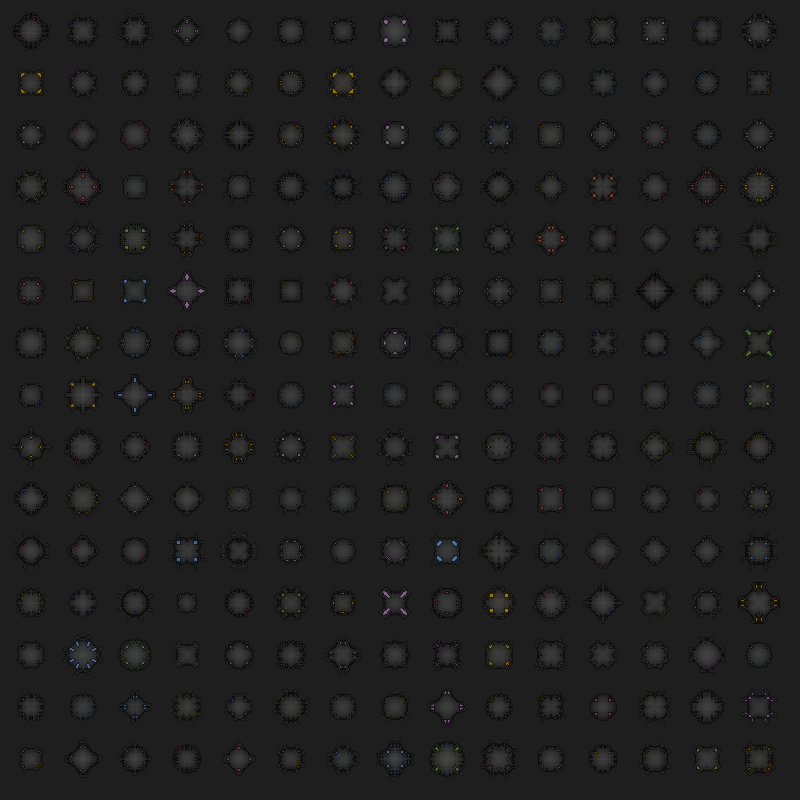
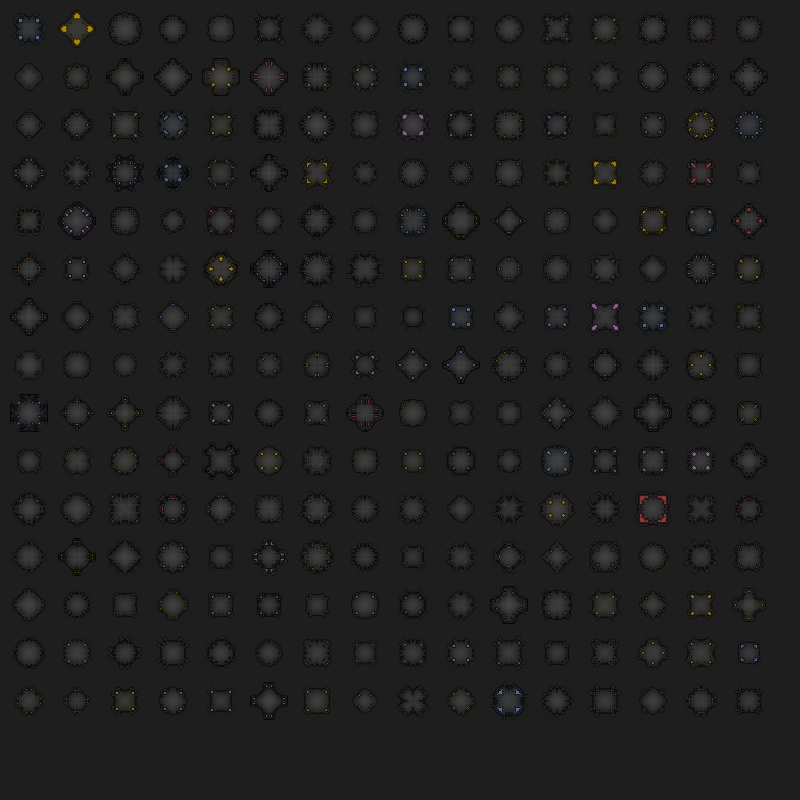
Added a console generator. Tweaked Image Utils. And set the correct size for the tiles factory.

diff --git a/examples/ajb/examples/CreateImageFullOfConsoles.java b/examples/ajb/examples/CreateImageFullOfConsoles.java
@@ -1,0 +1,44 @@
+package ajb.examples;
+
+import java.awt.image.BufferedImage;
+import java.util.ArrayList;
+import java.util.List;
+
+import ajb.domain.Pixel;
+import ajb.factory.ConsoleGeneratorFactory;
+import ajb.utils.ImageUtils;
+
+public class CreateImageFullOfConsoles {
+
+	public static void main(String[] args) {
+
+		// get an instance of our factory
+		ConsoleGeneratorFactory factory = new ConsoleGeneratorFactory();
+
+		// list to hold all the console we generate
+		List<Pixel[][]> grids = new ArrayList<Pixel[][]>();
+
+		// create X console and add to our list
+		for (int i = 0; i < 240; i++) {
+
+			Pixel[][] grid = factory.create();
+
+			// add grid to list
+			grids.add(grid);
+		}
+
+        //g.setColor(Color.decode("#FFC600"));
+        //int identifierWidth = g.getFontMetrics().stringWidth(hex.getIdentifier());
+        //int identifierHeight = g.getFontMetrics().getHeight();
+        //g.drawString(hex.getIdentifier(), (int) hex.getMiddlePoint().getX() - (identifierWidth / 2), (int) hex.getMiddlePoint().getY() + (identifierHeight / 2));						
+		
+		// create image
+		BufferedImage img = ImageUtils.outputAllToImage(grids, 800, 800, null, null);
+
+		// save image
+		// replace with the path of wherever you want the image to go - if left
+		// as is it will be in the root project folder
+		ImageUtils.save(img, "png", "consoles");
+	}
+
+}

diff --git a/src/ajb/factory/ConsoleGeneratorFactory.java b/src/ajb/factory/ConsoleGeneratorFactory.java
@@ -1,0 +1,36 @@
+package ajb.factory;
+
+import ajb.domain.Pixel;
+import ajb.utils.PixelGridUtils;
+
+public class ConsoleGeneratorFactory {
+
+	private final int ROWS = 19;
+	private final int COLS = 19;
+
+	public Pixel[][] create() {
+
+		Pixel[][] grid = createBaseGrid();
+		
+		grid = PixelGridUtils.mirrorCopyGridHorizontally(grid);
+		grid = PixelGridUtils.mirrorCopyGridVertically(grid);
+		grid = PixelGridUtils.addBorders(grid);		
+		PixelGridUtils.setPixelDepth(grid);		
+		
+		return grid;
+	}
+	
+	private Pixel[][] createBaseGrid() {
+
+		Pixel[][] grid = new Pixel[ROWS][COLS];
+		PixelGridUtils.initEmptyGrid(grid, ROWS, COLS);
+
+		for (int x = 0; x < ROWS; x++) {
+			for (int y = 0; y < COLS; y++) {
+				grid[x][y].value = Pixel.FILLED;
+			}
+		}
+
+		return grid;
+	}
+}

diff --git a/src/ajb/utils/ImageUtils.java b/src/ajb/utils/ImageUtils.java
@@ -21,6 +21,10 @@ public class ImageUtils {
 
 	public static BufferedImage outputToImage(Pixel[][] grid, Color primaryColor, Color secondaryColor) {
 		
+		if (primaryColor == null) {
+			primaryColor = Color.decode(ColorUtils.getRandomColour());			
+		}		
+		
 		if (secondaryColor == null) {
 			secondaryColor = Color.decode(ColorUtils.getRandomColour());
 		}
@@ -91,7 +95,7 @@ public class ImageUtils {
 		// Fill background
 		gr.setColor(Color.decode("#1E1E1E"));
 		gr.fillRect(0, 0, width, height);
-
+		
 		int x = 10;
 		int y = 10;
 		int maxYForLine = 0;

diff --git a/src/ajb/factory/TileGeneratorFactory.java b/src/ajb/factory/TileGeneratorFactory.java
@@ -8,8 +8,8 @@ import ajb.utils.PixelGridUtils;
 
 public class TileGeneratorFactory {
 
-	private final int ROWS = 20;
-	private final int COLS = 20;
+	private final int ROWS = 19;
+	private final int COLS = 19;
 
 	public Pixel[][] create() {
 
